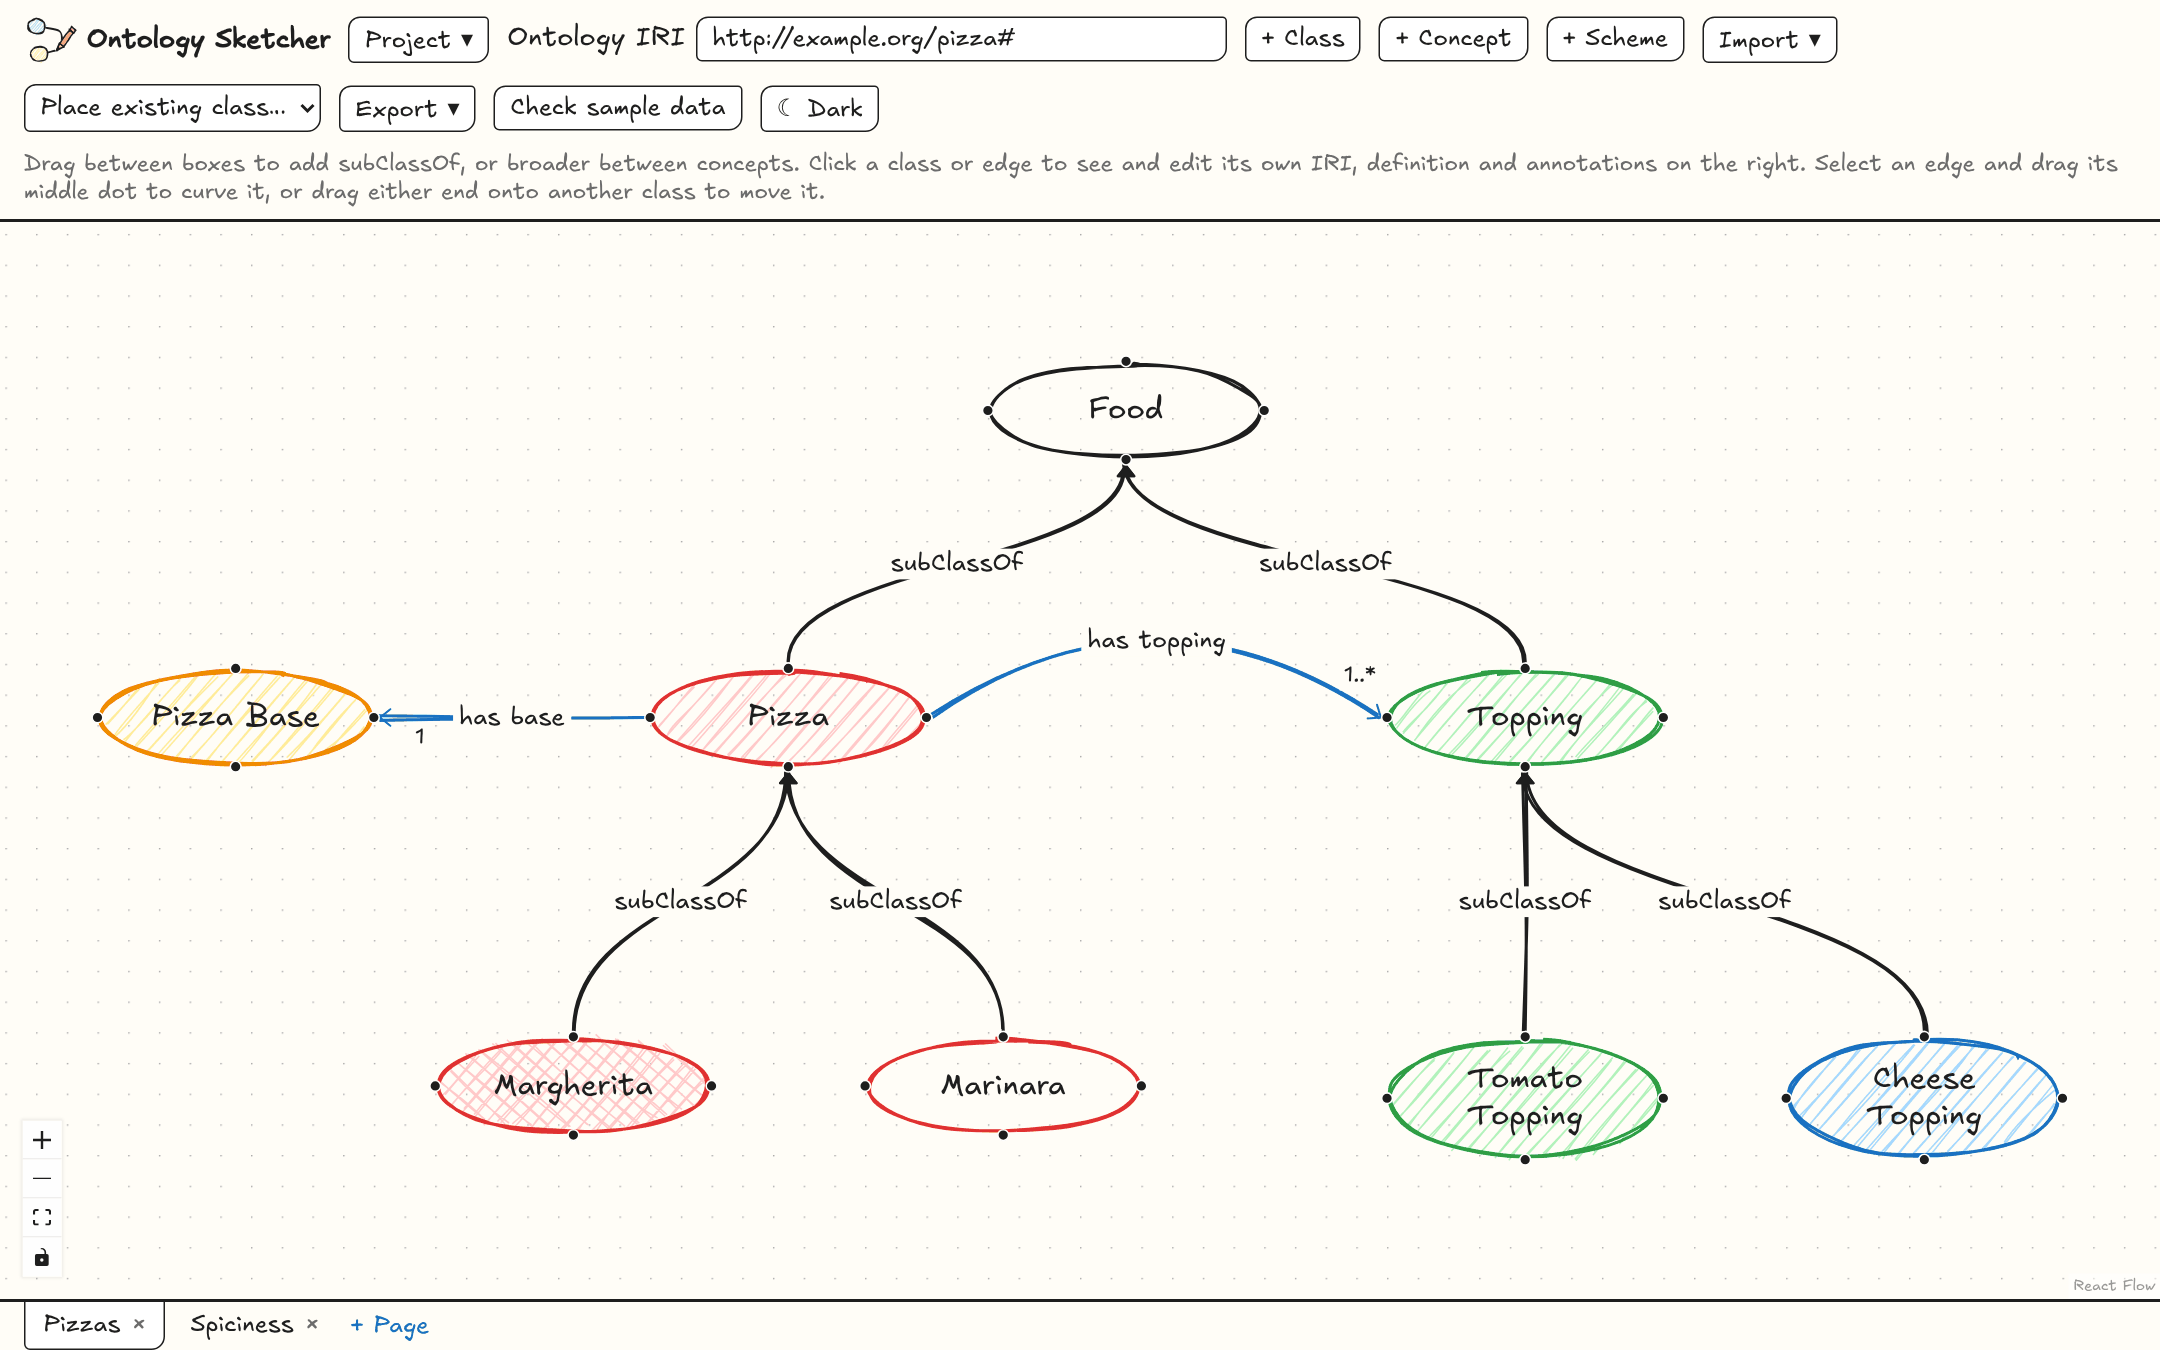
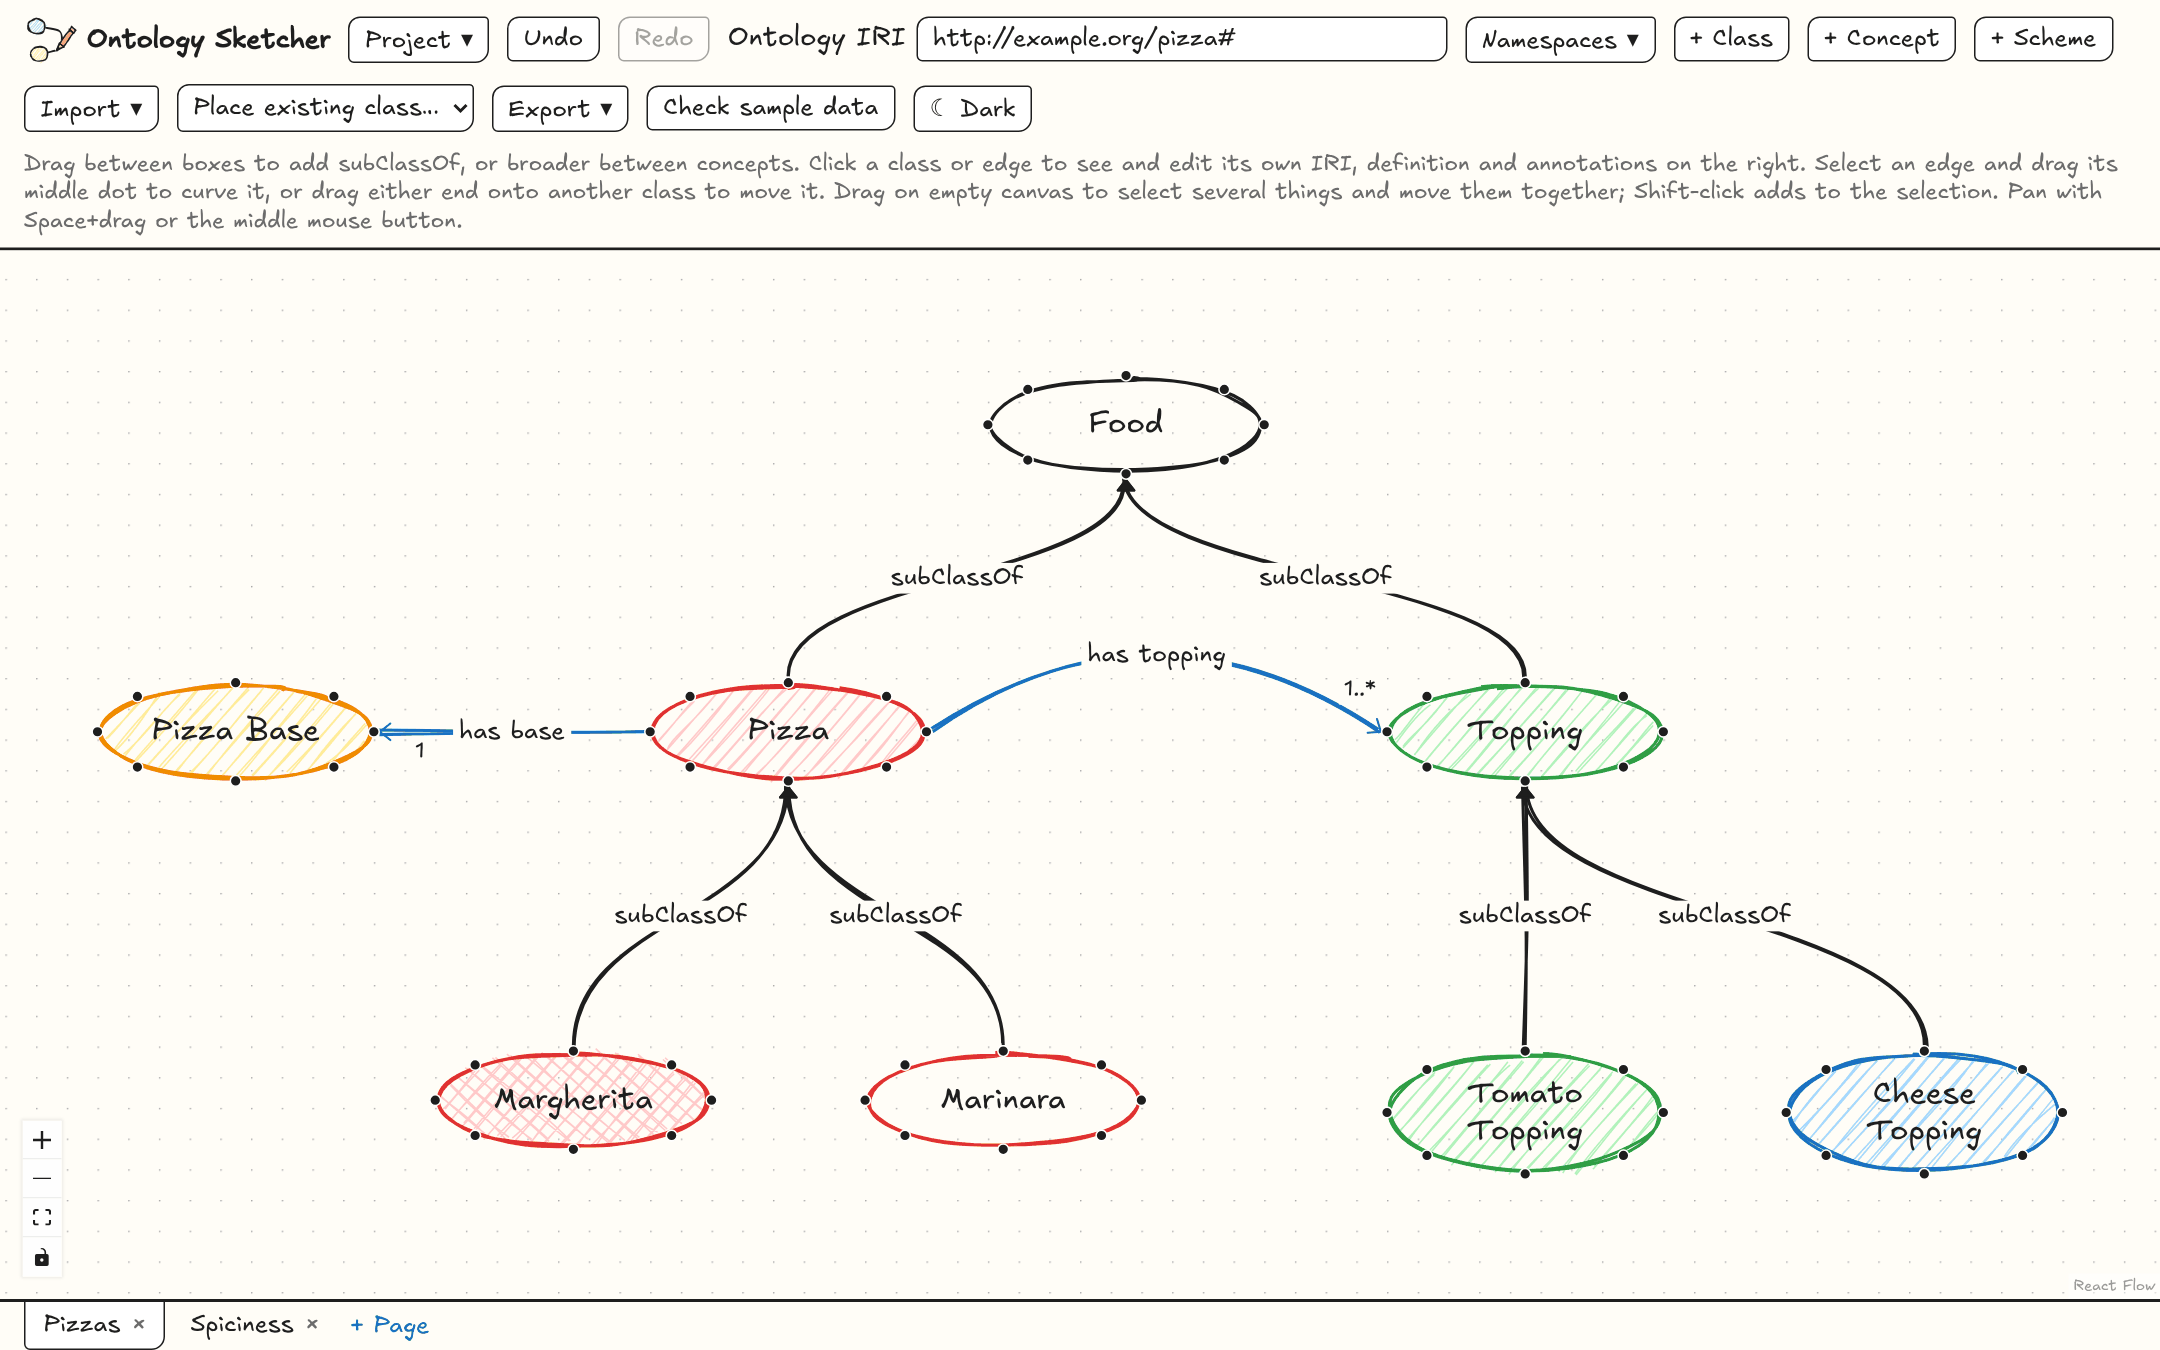
Bring the README up to date with eight connection dots, box select, undo and import fidelity
Retake all five screenshots so they show the Undo and Redo buttons, the eight
connection dots and the new canvas hint.

diff --git a/README.md b/README.md
@@ -42,8 +42,13 @@ add axioms and data constraints, check a few example instances, and hand the res
 - Hand-drawn shapes and the Excalifont handwriting font, with a style panel like Excalidraw's: box or oval,
   stroke and fill colours, fill style, stroke width and style, and sloppiness.
 - Light and dark mode, following your system setting until you pick one in the toolbar.
-- Every class has four connection dots. Drag from one onto another class to add `rdfs:subClassOf`; the arrow
-  snaps to the nearest dot. Name an arrow to turn it into an object property, and drag its midpoint to curve it.
+- Every class has eight connection dots, on its four sides and four corners. Drag from one onto another class to
+  add `rdfs:subClassOf`; the arrow snaps to the nearest dot. Name an arrow to turn it into an object property, and
+  drag its midpoint to curve it.
+- Drag on empty canvas to select several classes and arrows and move them together; Shift-click adds to the
+  selection. Pan with Space+drag or the middle mouse button.
+- **Undo** and **Redo** in the toolbar (Ctrl+Z, and Ctrl+Shift+Z or Ctrl+Y; Cmd on a Mac) step back and forth
+  through canvas and inspector edits on every page. A group move is one step.
 - Pages, like layers: split a large ontology into views that share the same classes, and pick which pages to
   export. Double-click a page tab to rename it. A class can have a detail page (Pages in the inspector): the
   class then gets a small "page" tab on the canvas that opens it, and the inspector lists every page the class is on.
@@ -55,6 +60,10 @@ add axioms and data constraints, check a few example instances, and hand the res
   back onto the canvas with an automatic layout, superclasses above subclasses. Classes already on the page keep
   their place, so re-importing an edited file only adds what is new. A file exported here brings back its pages,
   positions and colours. A large ontology (over 60 classes) opens as an overview page plus a page per branch.
+- Nothing in an imported file is lost. A property whose range is a class the file doesn't declare (such as
+  `skos:Concept`) is drawn as an arrow to a dashed outside box. What the canvas can't draw, such as the ontology
+  header, individuals, union axioms, n-ary disjointness or property chains, is kept with the project and written
+  back unchanged on export. Entities without a label don't get one made up.
 - **Import an .excalidraw drawing**: labelled shapes become classes in the same place, and arrows between them become
   `rdfs:subClassOf` (unlabelled, or labelled "SCO" / "subClassOf") or an object property named after the label.
   Colours, fill, stroke, sloppiness, ovals and curved arrows carry over.
